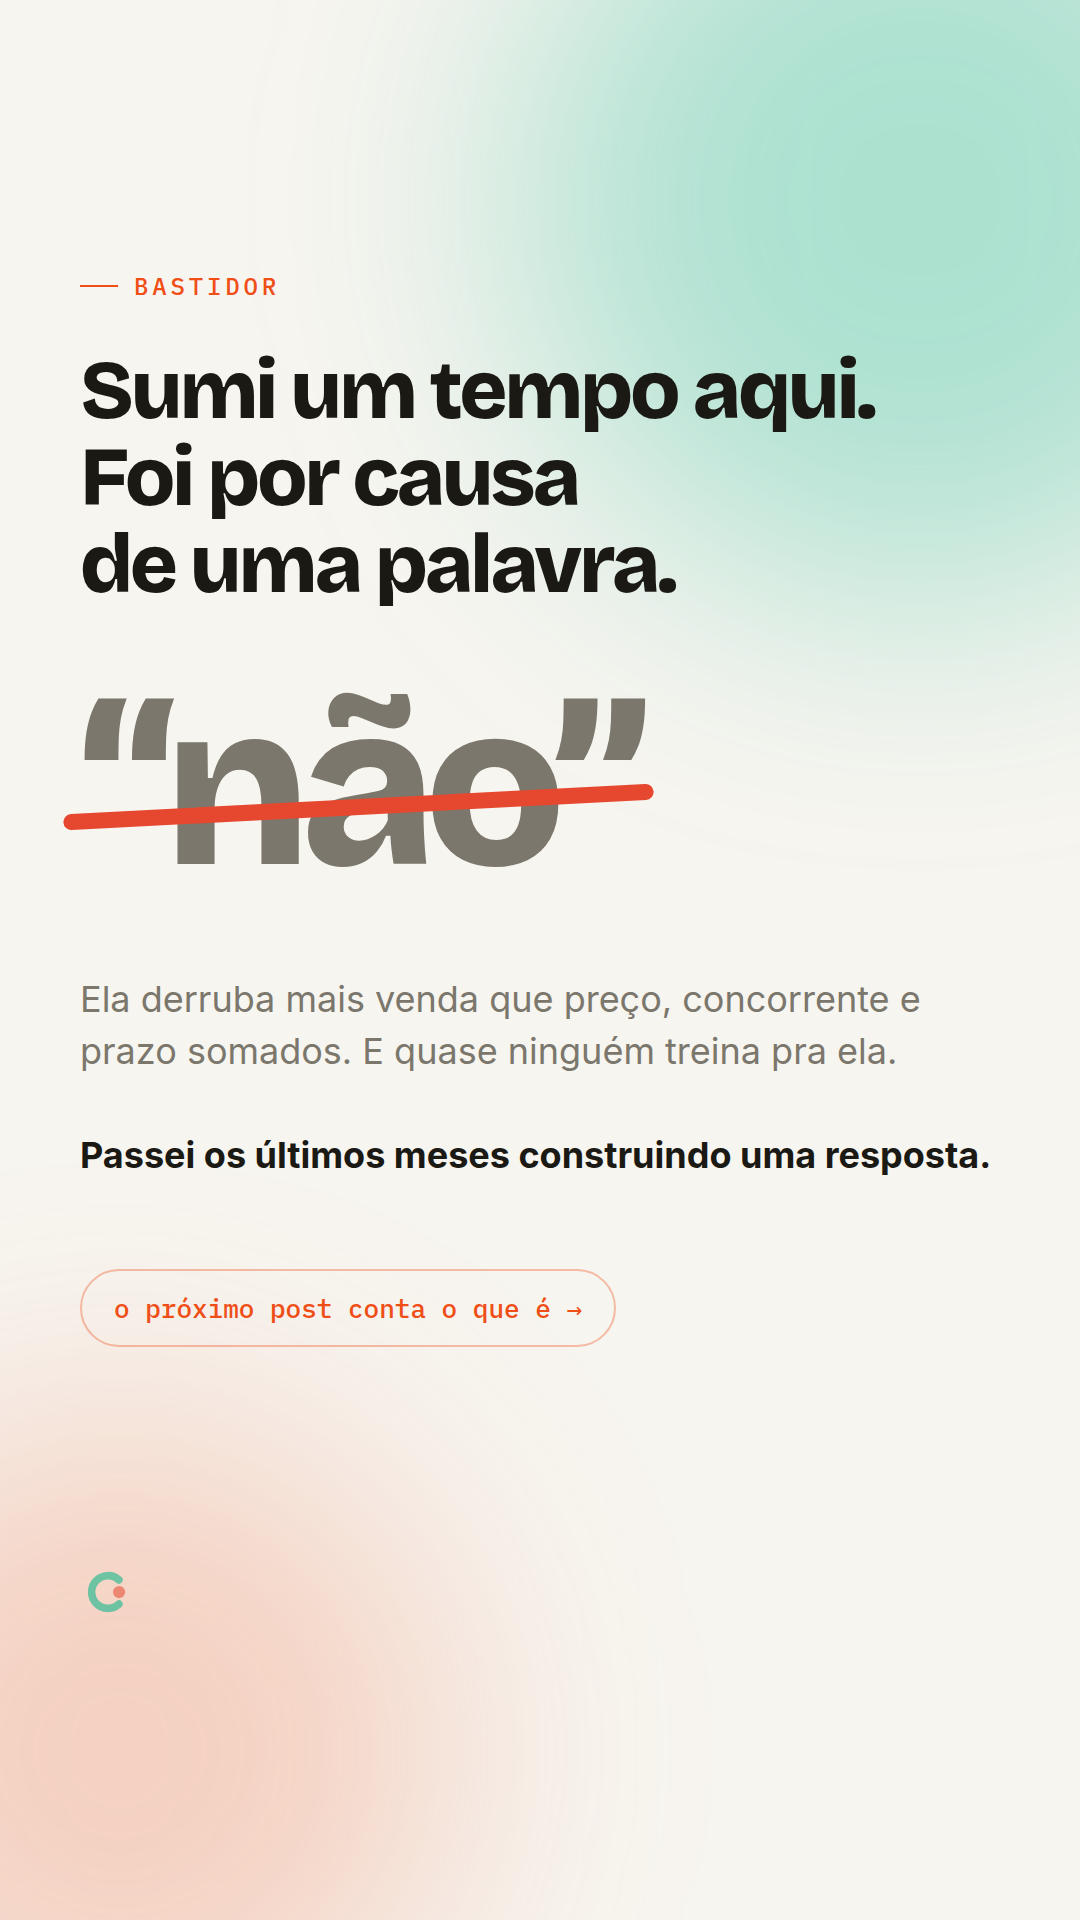
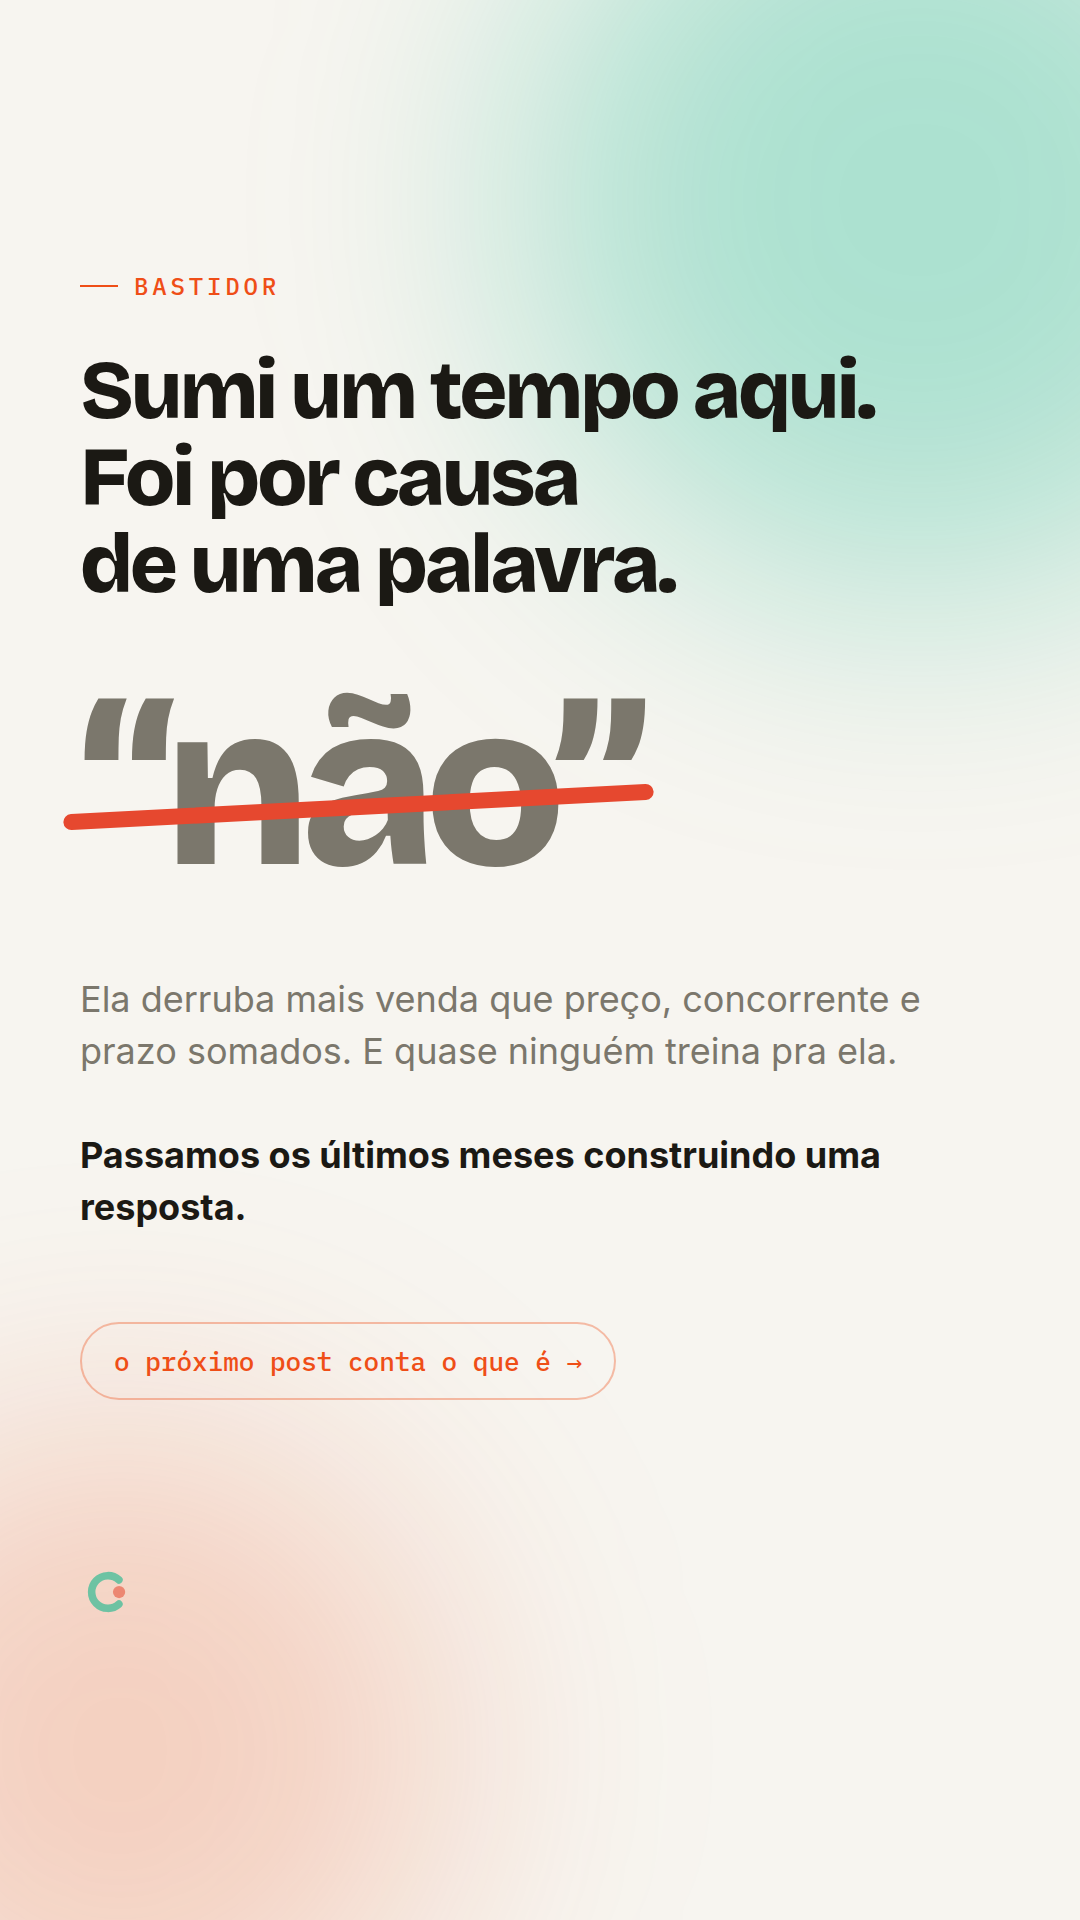
Passa a frase de fechamento do story avulso para a primeira do plural
"Passamos os últimos meses construindo uma resposta" — quem construiu foi o
time, não uma pessoa só.

Claude-Session: https://claude.ai/code/session_01RtsTQCujuYVaXGXttVYwWb

Changed region(s): [[0.0611, 0.5938, 0.9167, 0.7188], [0.55, 0.6875, 0.5806, 0.7188]]

diff --git a/marketing/instagram/src/avulsos.html b/marketing/instagram/src/avulsos.html
@@ -54,7 +54,7 @@
     <span class="eyebrow">Bastidor</span>
     <h1 class="display">Sumi um tempo aqui.<br>Foi por causa<br>de uma palavra.</h1>
     <p class="word display"><span class="strike">“não”</span></p>
-    <p class="body">Ela derruba mais venda que preço, concorrente e prazo somados. E quase ninguém treina pra ela.<br><br><b>Passei os últimos meses construindo uma resposta.</b></p>
+    <p class="body">Ela derruba mais venda que preço, concorrente e prazo somados. E quase ninguém treina pra ela.<br><br><b>Passamos os últimos meses construindo uma resposta.</b></p>
     <span class="next">o próximo post conta o que é →</span>
     <span class="sign">
       <svg viewBox="0 0 96 96" fill="none" xmlns="http://www.w3.org/2000/svg">
